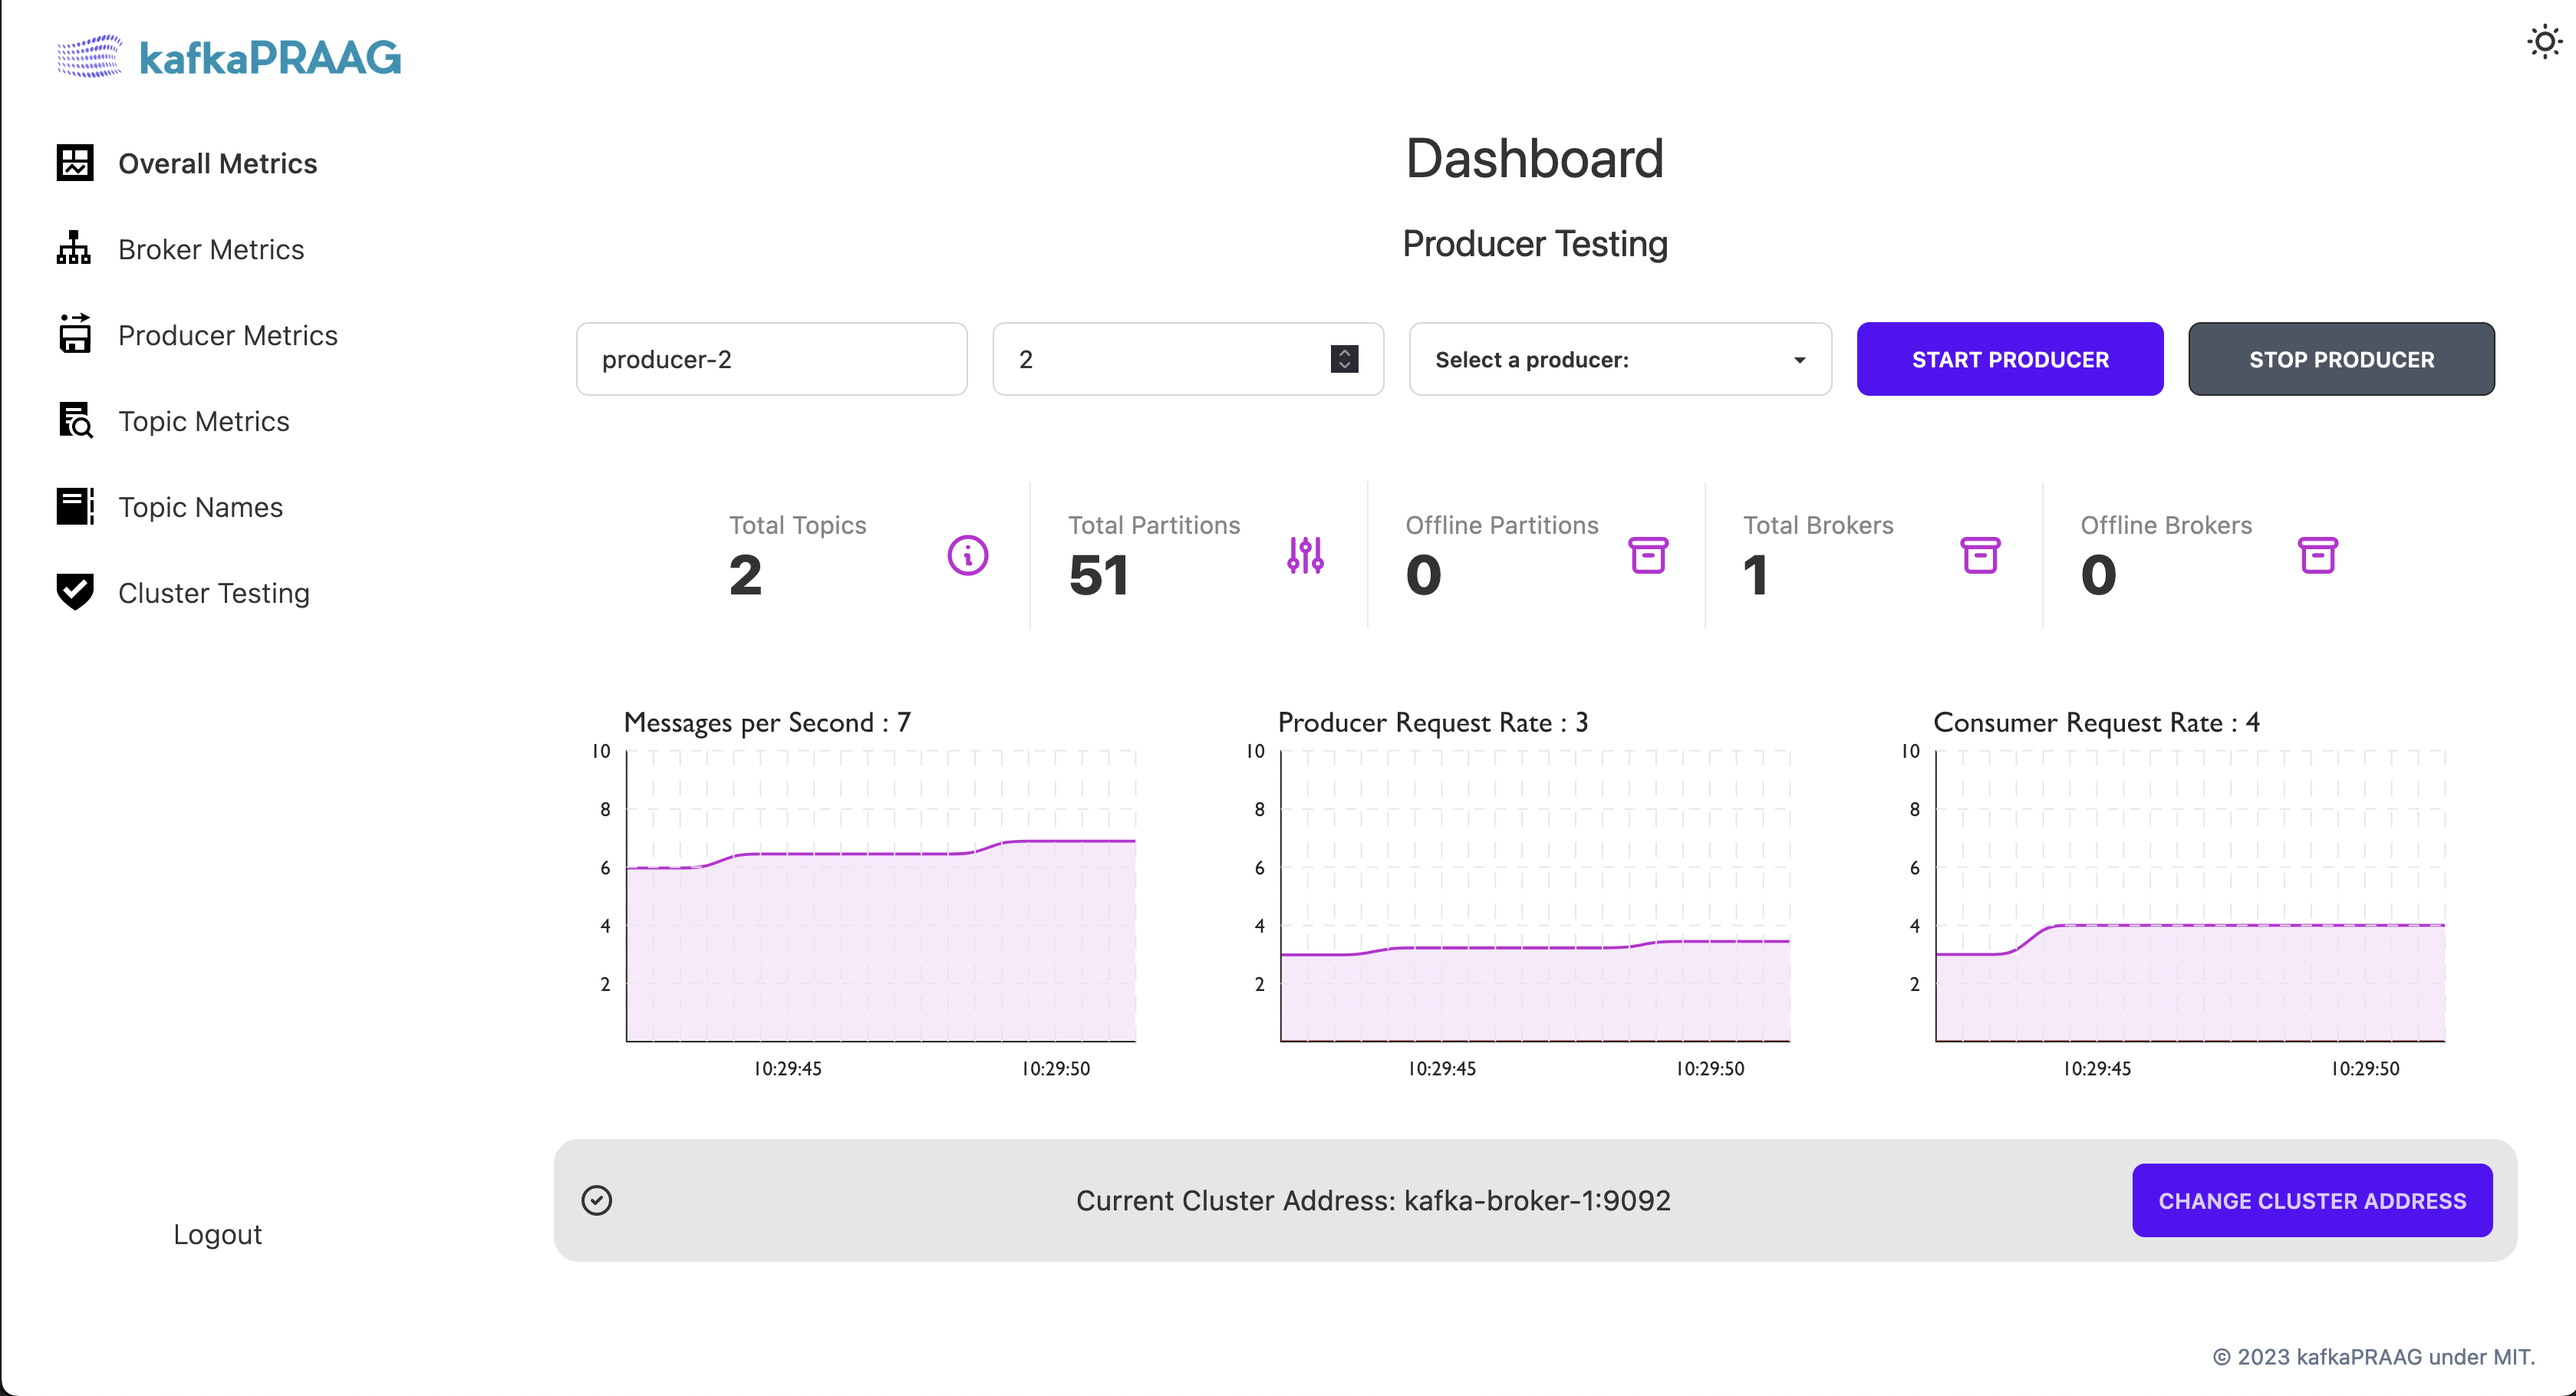
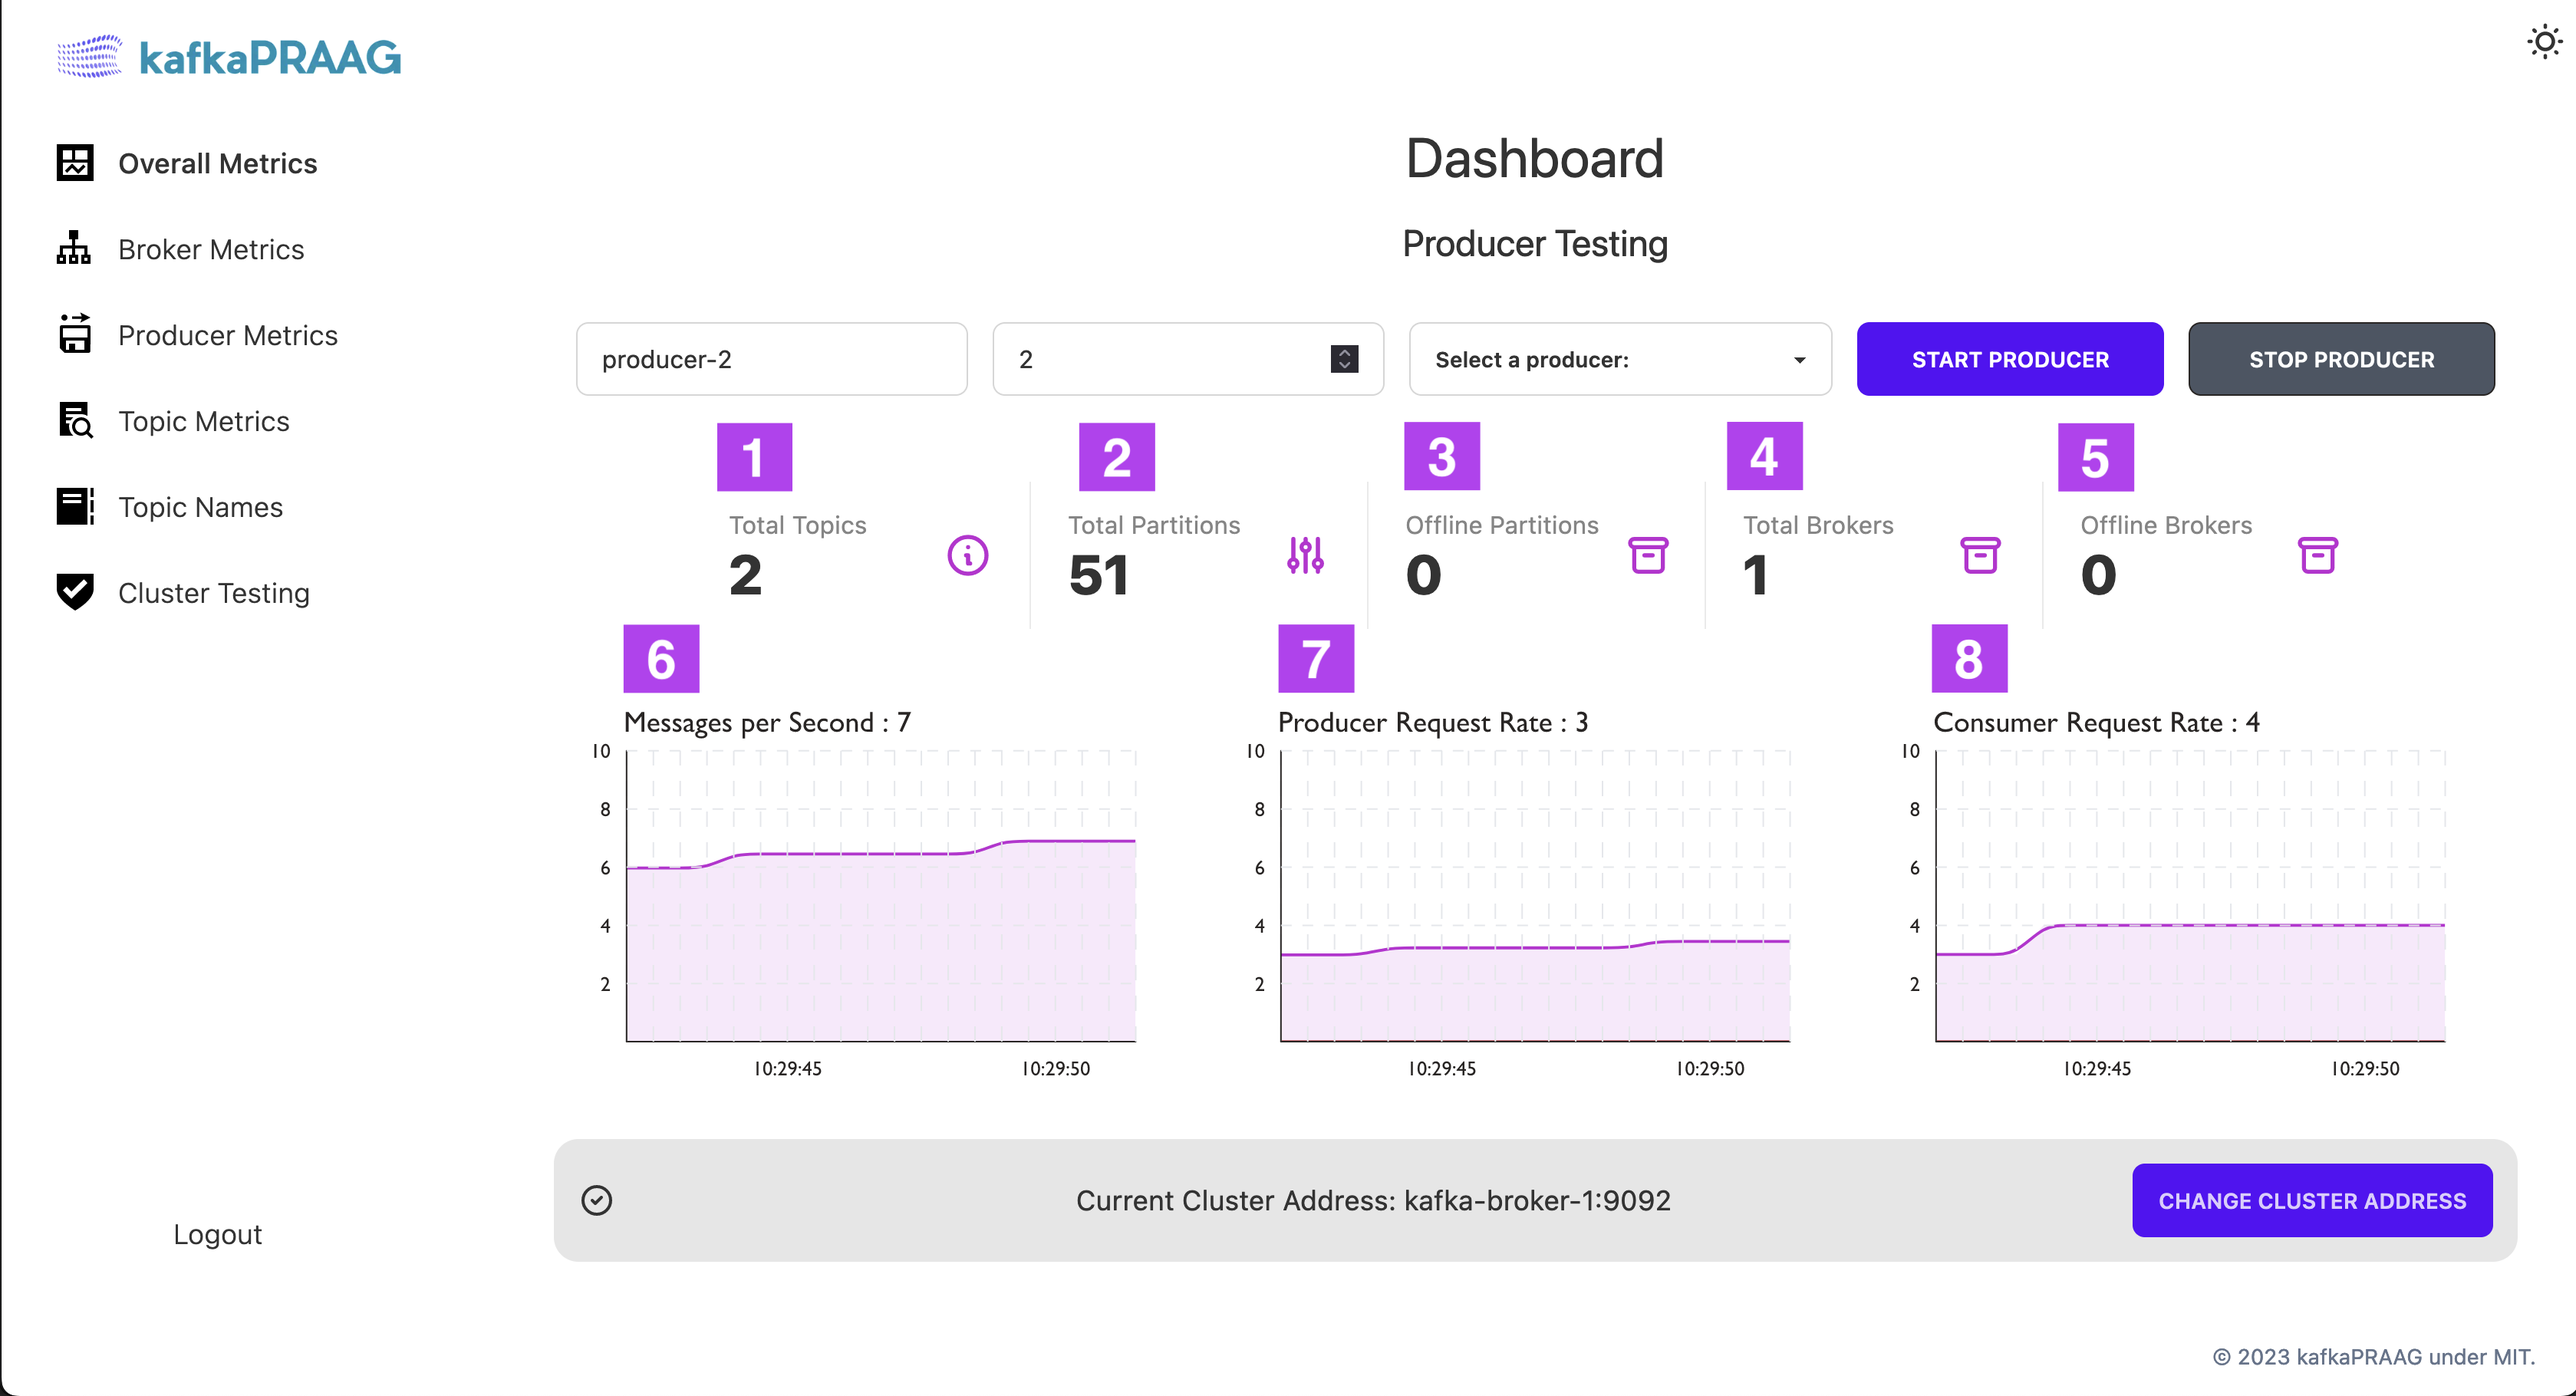
Add labels to dashboard png

diff --git a/README.md b/README.md
@@ -255,6 +255,9 @@ Select a producer from the dropdown menu and click stop to terminate it.
 3. Number of partitions offline
 4. Total number of brokers in the cluster
 5. Number of offline (fenced) brokers
+6. One-minute average of messages in per second
+7. One-minute average of producer requests per second
+8. One-minute average of consumer requests per second
 
 ![dashboard-key](https://raw.githubusercontent.com/oslabs-beta/progue-for-kafka/dev/src/assets/readme/dashboard.png)
 
